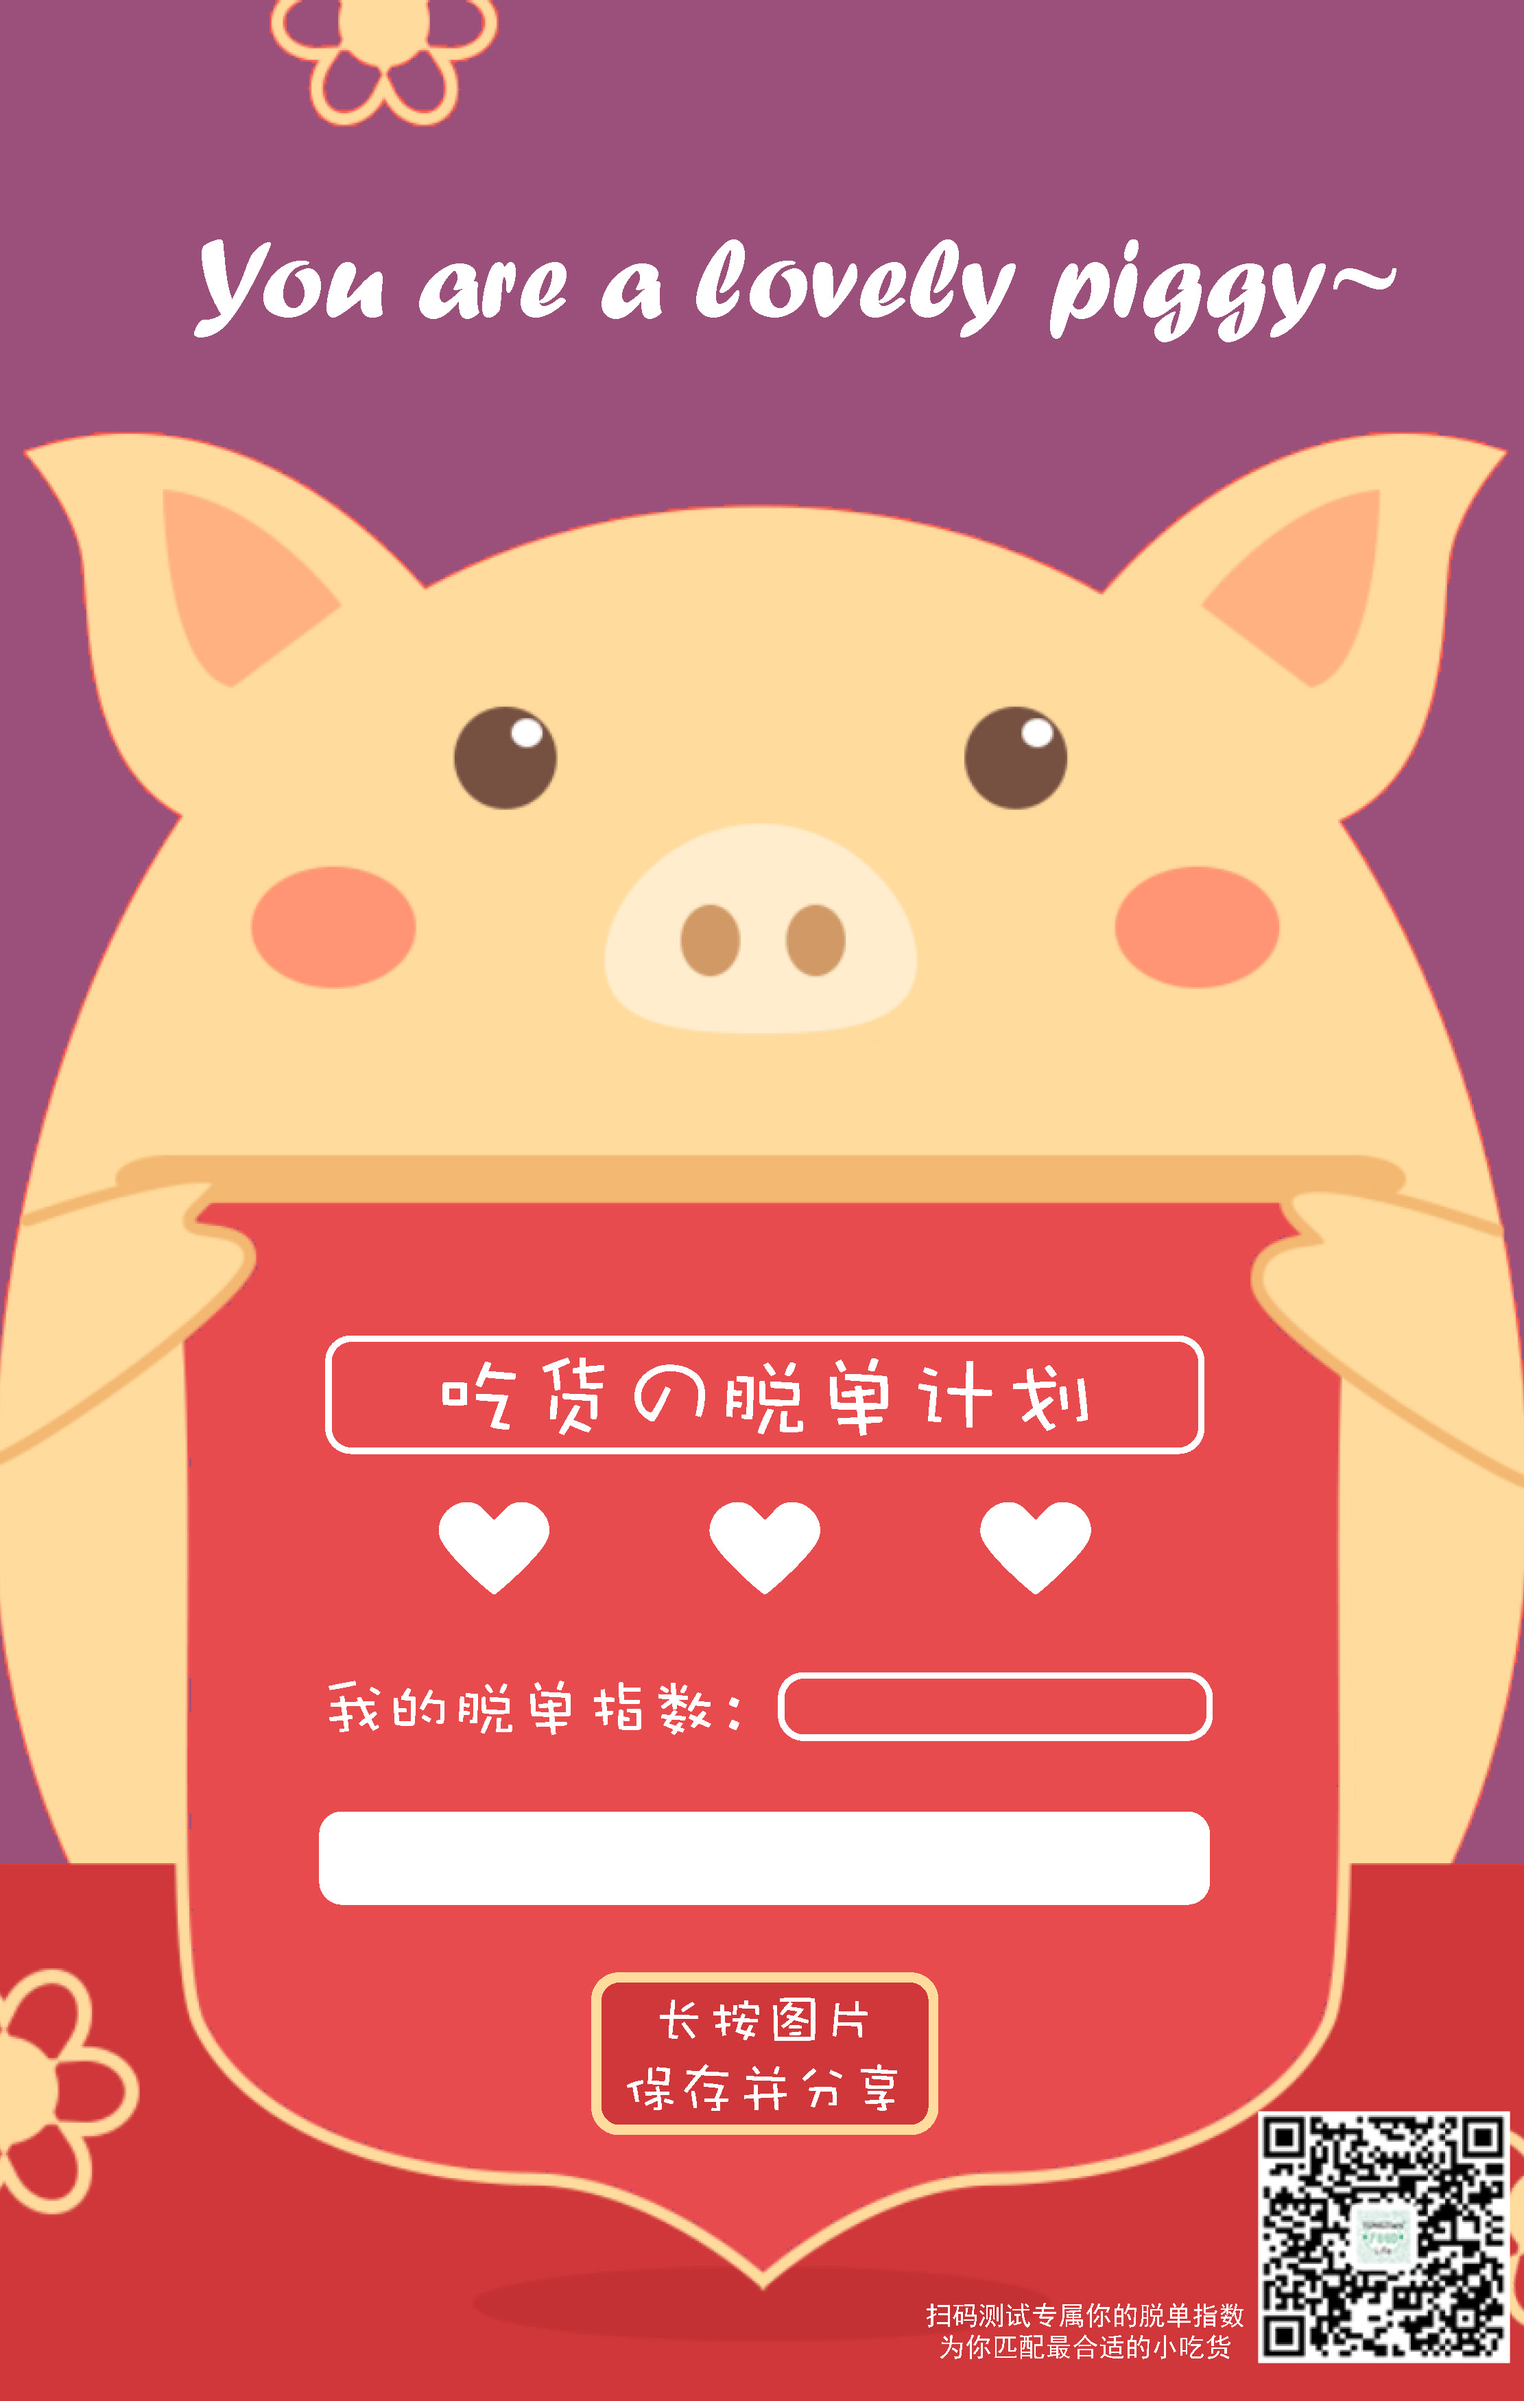
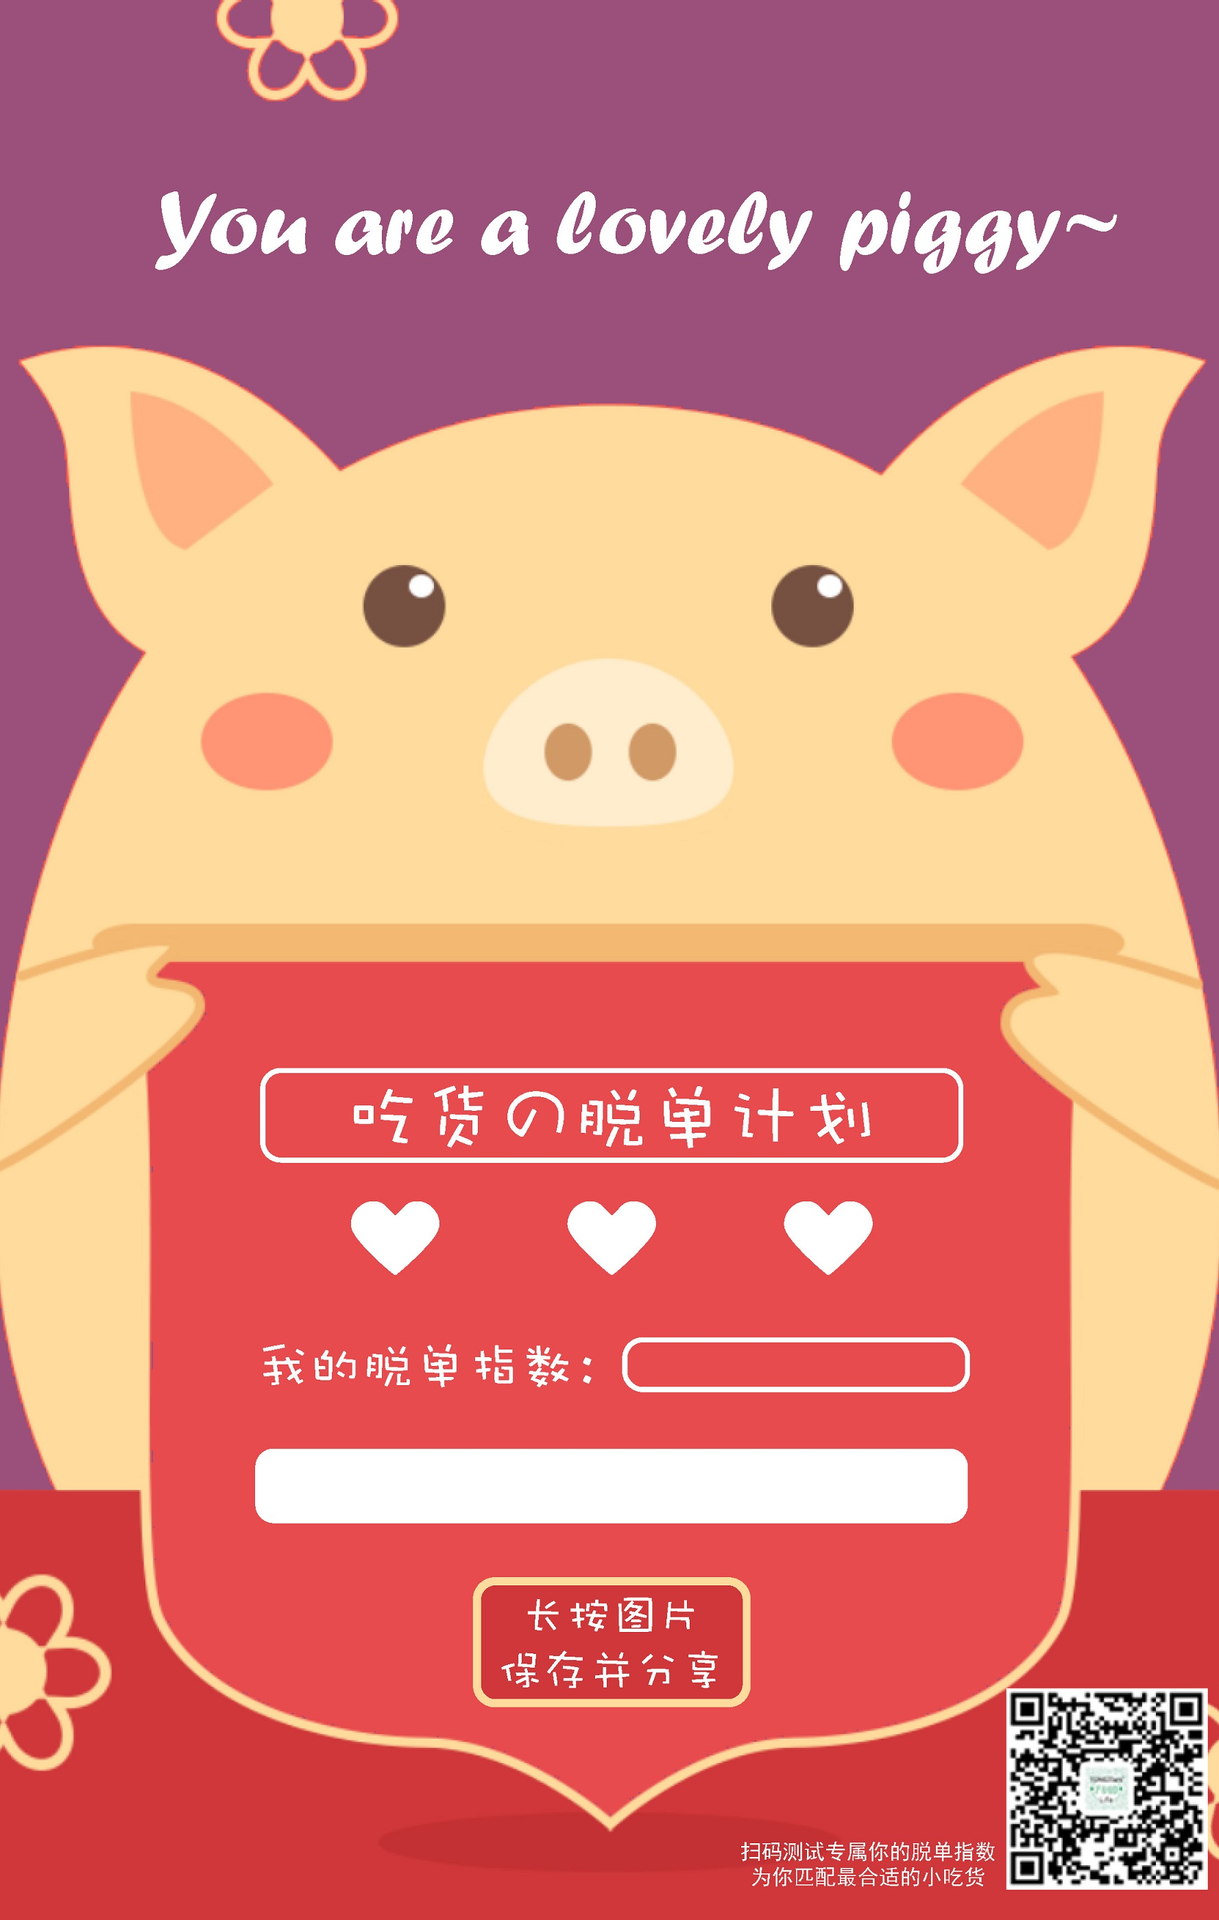
脱单指数测试

Changed region(s): [[0.6187, 0.9632, 0.7424, 0.9943], [0.7733, 0.9632, 0.8043, 0.9943]]

diff --git a/match.html b/match.html
@@ -95,22 +95,23 @@
   var timer = setInterval(function() {
 		if (document.getElementById('bg').complete) {
 			clearInterval(timer)
-			document.getElementById('male1').style.top=0.295*document.body.scrollHeight;
-			document.getElementById('male2').style.top=0.295*document.body.scrollHeight;
-			document.getElementById('female1').style.top=0.295*document.body.scrollHeight;
-			document.getElementById('female2').style.top=0.295*document.body.scrollHeight;
+			var height=parseInt(window.getComputedStyle(document.getElementById('bg')).height)
+			document.getElementById('male1').style.top=0.295*height;
+			document.getElementById('male2').style.top=0.295*height;
+			document.getElementById('female1').style.top=0.295*height;
+			document.getElementById('female2').style.top=0.295*height;
 			
-			document.getElementById('wechat').style.top=0.385*document.body.scrollHeight;
+			document.getElementById('wechat').style.top=0.385*height;
 			
-			document.getElementById('type1').style.top=0.46*document.body.scrollHeight;
-			document.getElementById('type1on').style.top=0.46*document.body.scrollHeight;
-			document.getElementById('type2').style.top=0.55*document.body.scrollHeight;
-			document.getElementById('type2on').style.top=0.55*document.body.scrollHeight;
-			document.getElementById('button').style.top=0.64*document.body.scrollHeight;
+			document.getElementById('type1').style.top=0.46*height;
+			document.getElementById('type1on').style.top=0.46*height;
+			document.getElementById('type2').style.top=0.55*height;
+			document.getElementById('type2on').style.top=0.55*height;
+			document.getElementById('button').style.top=0.64*height;
 			
 			document.getElementById('buttons').style.display='inline';
 			document.getElementById('loading').style.visibility="hidden";
-			document.getElementById('matchinfo').style.top=0.5*document.body.scrollHeight;
+			document.getElementById('matchinfo').style.top=0.5*height;
 		}
 	},30)
   Bmob.initialize("7f518700e53363110974536ce2d479fb", "a7bdd090a38a53c3487cb57c00e6cd8f");

diff --git a/res.html b/res.html
@@ -88,11 +88,12 @@
 	var timer = setInterval(function() {
 		if (document.getElementById('bg').complete) {
 			clearInterval(timer)
+			var height=parseInt(window.getComputedStyle(document.getElementById('bg')).height)
 			document.getElementById('grade').innerHTML=res.toFixed(3);
-			document.getElementById('grade').style.top=0.34*document.body.scrollHeight;
-			document.getElementById('resbutton1').style.top=0.48*document.body.scrollHeight;
-			document.getElementById('resbutton2').style.top=0.57*document.body.scrollHeight;
-			document.getElementById('resbutton3').style.top=0.66*document.body.scrollHeight;
+			document.getElementById('grade').style.top=0.34*height;
+			document.getElementById('resbutton1').style.top=0.48*height;
+			document.getElementById('resbutton2').style.top=0.57*height;
+			document.getElementById('resbutton3').style.top=0.66*height;
 			document.getElementById('loading').style.visibility="hidden";
 			document.getElementById('buttons').style.display="inline";
 		}
